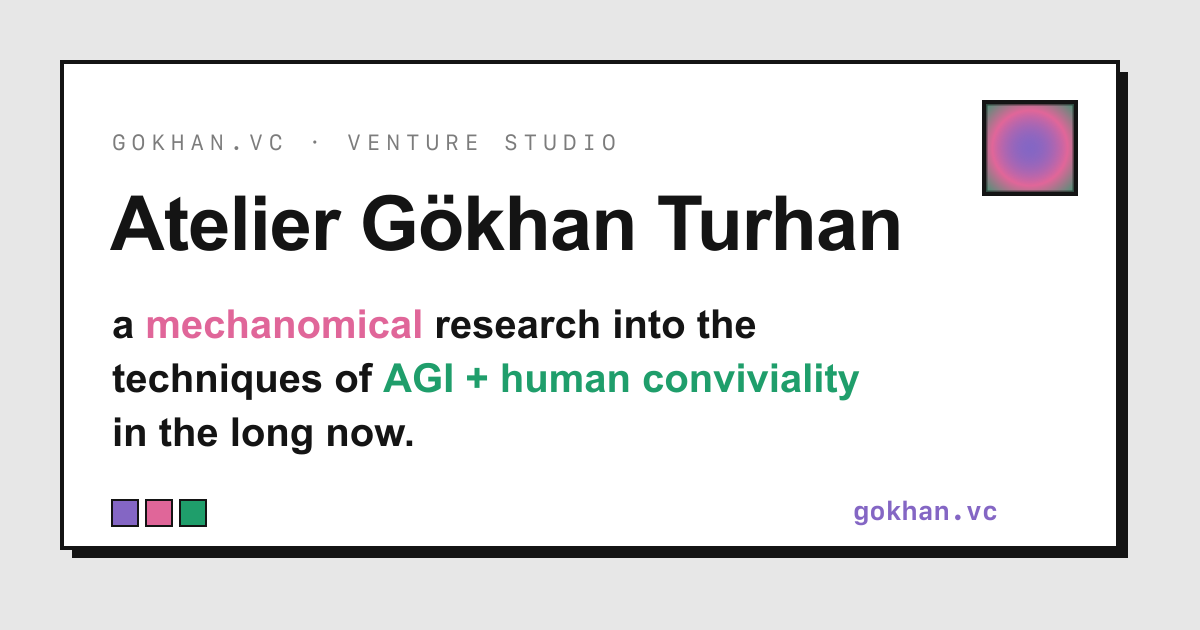
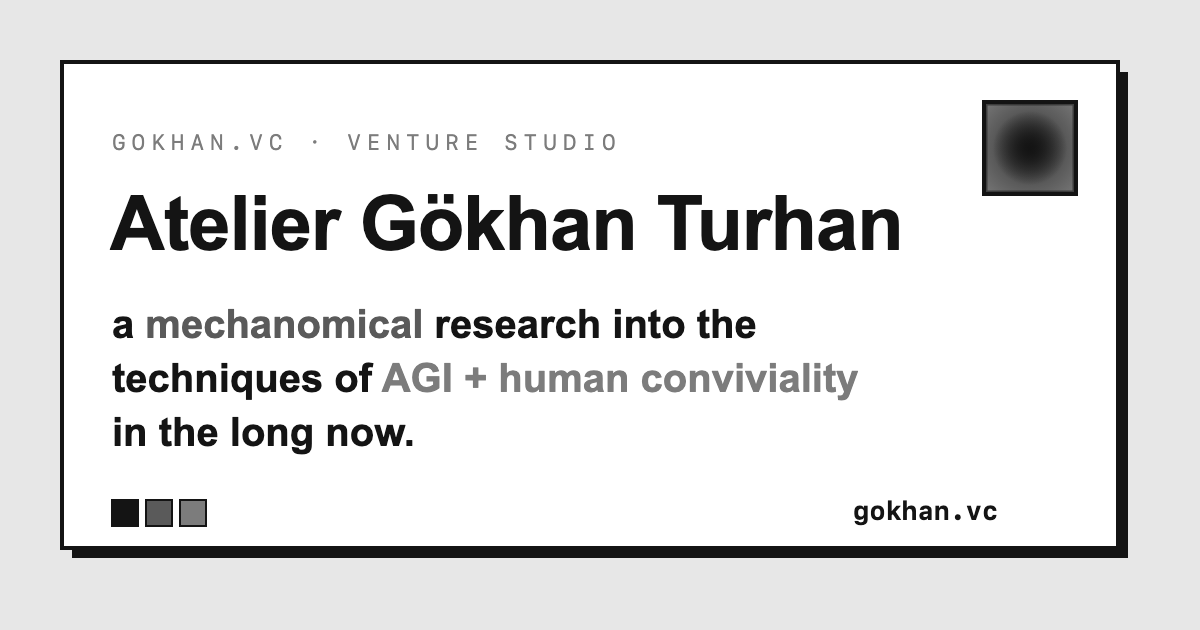
feat(redesign): B&W square kanban tiles, smaller hero, CURB + Hobby cards
- LinkTree: six square tiles in a 3/2/1 grid (index stamp, leaf count,
  open/close chevron); expanded tree flows below the face
- links: add CURB (curb.numetal.xyz — agent-to-agent inference swap;
  API/MCP/Skill/Install/Fees/x402/Docs) and Hobby Projects (tickerline,
  S&P 100 CapEx tracker, NVIDIA vs crypto)
- hero: compact 17-24px lockup (was 28-56px)
- monochrome sweep: purge #e10600/#8466c4 from global.css,
  SubscribeBlock, blog-collapse.js; add regression test
- og-image: recolor SVG to token grays, re-rasterize 1200x630 PNG
- llms.txt: six tiles + CURB/Hobby sections; tests extended to six
  properties with byte-exact hrefs

diff --git a/src/data/links.ts b/src/data/links.ts
@@ -224,6 +224,96 @@ export const properties: readonly LinkProperty[] = [
     ],
   },
   {
+    id: 'curb',
+    label: 'CURB',
+    domain: 'curb.numetal.xyz',
+    url: 'https://curb.numetal.xyz',
+    owner: 'agent↔agent inference swap',
+    apiTools: [
+      {
+        platform: 'API',
+        note: 'api.curb.numetal.xyz',
+        href: 'https://api.curb.numetal.xyz',
+        external: true,
+        tooltip: 'CURB hub API — offers, intents, matches; x402 USDC on Base (eip155:8453).',
+      },
+      {
+        platform: 'MCP',
+        note: 'curb.numetal.xyz/mcp',
+        href: 'https://curb.numetal.xyz/mcp',
+        external: true,
+        tooltip: 'MCP endpoint — connect an agent to list offers, post intents, and pay swaps.',
+      },
+      {
+        platform: 'Skill',
+        note: 'skill.md',
+        href: 'https://curb.numetal.xyz/skill.md',
+        external: true,
+        tooltip: 'Drop-in skill any agent runtime can load to trade excess inference.',
+      },
+      {
+        platform: 'Install',
+        note: 'one-line install',
+        href: 'https://curb.numetal.xyz/install',
+        external: true,
+        tooltip: 'One-line install — CURB skill and MCP wiring for your agent.',
+      },
+      {
+        platform: 'Fees',
+        note: 'fee schedule',
+        href: 'https://curb.numetal.xyz/fees',
+        external: true,
+        tooltip: 'One 0xSplits payment — seller cut + 5% protocol fee, settled on-chain.',
+      },
+      {
+        platform: 'x402',
+        note: '.well-known/x402',
+        href: 'https://curb.numetal.xyz/.well-known/x402',
+        external: true,
+        tooltip: 'x402 payment discovery manifest — USDC on Base.',
+      },
+    ],
+    website: {
+      platform: 'Website',
+      note: 'curb.numetal.xyz',
+      href: 'https://curb.numetal.xyz',
+      external: true,
+      tooltip: 'CURB — agent-to-agent excess inference swap. We are the swap rail.',
+    },
+    docs: {
+      platform: 'Docs',
+      note: 'offer → match → pay → grant',
+      href: 'https://curb.numetal.xyz/docs/',
+      external: true,
+      tooltip: "CURB docs — buyer pays once, gets a grant, calls the seller's own endpoint; upstream keys never touch the hub.",
+    },
+    socials: [
+      {
+        platform: 'X',
+        note: '@numetalxyz',
+        href: 'https://x.com/numetalxyz',
+        external: true,
+        tooltip: 'Numetal on X — studio announcements and agent launches.',
+      },
+      {
+        platform: 'Telegram',
+        note: 'Numetal',
+        href: 'https://t.me/numetalxyz',
+        external: true,
+        tooltip: 'Numetal Telegram — community and support.',
+      },
+    ],
+    contacts: [
+      {
+        platform: 'Email',
+        note: 'contact@numetal.xyz',
+        href: 'mailto:contact@numetal.xyz',
+        external: false,
+        tooltip: 'CURB inbox — swap-rail questions, sellers, and partnerships.',
+      },
+    ],
+  },
+  {
     id: 'gokhanvc',
     label: 'Gökhan VC',
     domain: 'gokhan.vc',
@@ -372,6 +462,82 @@ export const properties: readonly LinkProperty[] = [
         href: 'mailto:contact@gokhanturhan.com',
         external: false,
         tooltip: 'Personal inbox — writing, speaking, and general contact.',
+      },
+    ],
+  },
+  {
+    id: 'hobby',
+    label: 'Hobby Projects',
+    domain: 'github.com/avalidurl',
+    url: 'https://github.com/avalidurl',
+    owner: 'personal bench — avalidurl',
+    apiTools: [
+      {
+        platform: 'tickerline',
+        note: 'claudelines.com',
+        href: 'https://claudelines.com/statuslines/tickerline',
+        external: true,
+        tooltip: 'Claude Code statusline — a rolling ticker tape of stocks, crypto, and Polymarket, resolved live from the conversation.',
+      },
+      {
+        platform: 'GitHub',
+        note: 'avalidurl/tickerline',
+        href: 'https://github.com/avalidurl/tickerline',
+        external: true,
+        tooltip: 'tickerline source — no watchlist, no dictionary, no keys.',
+      },
+      {
+        platform: 'S&P 100 CapEx',
+        note: 'sp100-financial-tracker.pages.dev',
+        href: 'https://sp100-financial-tracker.pages.dev',
+        external: true,
+        tooltip: 'Real-time dashboard tracking CapEx and financials for S&P 100 companies via SEC EDGAR.',
+      },
+      {
+        platform: 'GitHub',
+        note: 'avalidurl/sp100-financial-tracker',
+        href: 'https://github.com/avalidurl/sp100-financial-tracker',
+        external: true,
+        tooltip: 'S&P 100 CapEx tracker source — SEC EDGAR + Yahoo Finance, no API keys.',
+      },
+      {
+        platform: 'NVIDIA vs crypto',
+        note: 'market-cap-tracker.vercel.app',
+        href: 'https://market-cap-tracker.vercel.app',
+        external: true,
+        tooltip: "Real-time comparison of NVIDIA's market cap versus the total cryptocurrency market cap.",
+      },
+      {
+        platform: 'GitHub',
+        note: 'avalidurl/market-cap-tracker',
+        href: 'https://github.com/avalidurl/market-cap-tracker',
+        external: true,
+        tooltip: 'NVIDIA vs crypto tracker source — Yahoo Finance + CoinGecko.',
+      },
+    ],
+    website: {
+      platform: 'GitHub',
+      note: 'avalidurl',
+      href: 'https://github.com/avalidurl',
+      external: true,
+      tooltip: 'Personal GitHub — experiments and side projects.',
+    },
+    socials: [
+      {
+        platform: 'X',
+        note: '@goekhan',
+        href: 'https://x.com/goekhan',
+        external: true,
+        tooltip: 'Gökhan on X — markets, agents, and hobby ships.',
+      },
+    ],
+    contacts: [
+      {
+        platform: 'Email',
+        note: 'contact@gokhanturhan.com',
+        href: 'mailto:contact@gokhanturhan.com',
+        external: false,
+        tooltip: 'Personal inbox — hobby projects and general contact.',
       },
     ],
   },

diff --git a/tests/links.test.ts b/tests/links.test.ts
@@ -1,7 +1,7 @@
 import { describe, expect, it } from 'vitest';
 import { properties, allLeaves } from '../src/data/links';
 
-const EXPECTED_ORDER = ['ishtar', 'numetal', 'gokhanvc', 'memex'] as const;
+const EXPECTED_ORDER = ['ishtar', 'numetal', 'curb', 'gokhanvc', 'memex', 'hobby'] as const;
 
 const EXPECTED_HREFS: Record<string, string[]> = {
   ishtar: [
@@ -30,6 +30,19 @@ const EXPECTED_HREFS: Record<string, string[]> = {
     'https://discord.gg/MC4DYumPMz',
     'mailto:contact@numetal.xyz',
   ],
+  curb: [
+    'https://api.curb.numetal.xyz',
+    'https://curb.numetal.xyz/mcp',
+    'https://curb.numetal.xyz/skill.md',
+    'https://curb.numetal.xyz/install',
+    'https://curb.numetal.xyz/fees',
+    'https://curb.numetal.xyz/.well-known/x402',
+    'https://curb.numetal.xyz',
+    'https://curb.numetal.xyz/docs/',
+    'https://x.com/numetalxyz',
+    'https://t.me/numetalxyz',
+    'mailto:contact@numetal.xyz',
+  ],
   gokhanvc: [
     'https://api.gokhan.vc',
     'https://github.com/gokhan-vc',
@@ -52,13 +65,26 @@ const EXPECTED_HREFS: Record<string, string[]> = {
     'https://discord.gg/ZcxcwRPT7R',
     'mailto:contact@gokhanturhan.com',
   ],
+  hobby: [
+    'https://claudelines.com/statuslines/tickerline',
+    'https://github.com/avalidurl/tickerline',
+    'https://sp100-financial-tracker.pages.dev',
+    'https://github.com/avalidurl/sp100-financial-tracker',
+    'https://market-cap-tracker.vercel.app',
+    'https://github.com/avalidurl/market-cap-tracker',
+    'https://github.com/avalidurl',
+    'https://x.com/goekhan',
+    'mailto:contact@gokhanturhan.com',
+  ],
 };
 
 const EXPECTED_CONTACTS: Record<string, string> = {
   ishtar: 'contact@numetal.xyz',
   numetal: 'contact@numetal.xyz',
+  curb: 'contact@numetal.xyz',
   gokhanvc: 'contact@gokhan.vc',
   memex: 'contact@gokhanturhan.com',
+  hobby: 'contact@gokhanturhan.com',
 };
 
 function leavesForProperty(id: string) {
@@ -75,13 +101,15 @@ function leavesForProperty(id: string) {
 }
 
 describe('link tree data — structure', () => {
-  it('has exactly four properties in founder order', () => {
+  it('has exactly six properties in founder order', () => {
     expect(properties.map((p) => p.id)).toEqual([...EXPECTED_ORDER]);
     expect(properties.map((p) => p.label)).toEqual([
       'Ishtar',
       'Numetal Labs',
+      'CURB',
       'Gökhan VC',
       'Personal Memex',
+      'Hobby Projects',
     ]);
   });
 
@@ -121,11 +149,13 @@ describe('link tree data — byte-exact hrefs', () => {
 });
 
 describe('link tree data — link hygiene', () => {
-  it('has exactly four mailto leaves with correct addresses', () => {
+  it('has exactly six mailto leaves with correct addresses', () => {
     const mailtos = allLeaves.filter((leaf) => leaf.href.startsWith('mailto:'));
     expect(mailtos.map((leaf) => leaf.href).sort()).toEqual([
       'mailto:contact@gokhan.vc',
       'mailto:contact@gokhanturhan.com',
+      'mailto:contact@gokhanturhan.com',
+      'mailto:contact@numetal.xyz',
       'mailto:contact@numetal.xyz',
       'mailto:contact@numetal.xyz',
     ]);

diff --git a/src/styles/global.css b/src/styles/global.css
@@ -107,7 +107,7 @@ a:focus-visible {
 .stripe {
   height: 6px;
   margin-top: 2.2rem;
-  background-image: repeating-linear-gradient(135deg, #e10600 0 9px, transparent 9px 18px);
+  background-image: repeating-linear-gradient(135deg, var(--ink) 0 9px, transparent 9px 18px);
 }
 
 .foot-sub {
@@ -222,8 +222,8 @@ a:focus-visible {
 
 .foot-sub-btn--xmtp:hover,
 .foot-sub-btn--xmtp:focus-visible {
-  color: #e10600;
-  border-color: #e10600;
+  color: var(--ink);
+  border-color: var(--ink);
 }
 
 .foot-sub-btn--xmtp:disabled {
@@ -270,7 +270,7 @@ a:focus-visible {
   font-weight: 400;
   opacity: 0;
   transition: opacity 0.12s;
-  color: #6a6a6a;
+  color: var(--muted);
 }
 
 h1:hover > .hanchor,
@@ -283,7 +283,7 @@ h4:hover > .hanchor,
 
 .hanchor:hover {
   opacity: 1;
-  color: #8466c4;
+  color: var(--ink);
   text-decoration: none;
 }
 

diff --git a/public/blog-collapse.js b/public/blog-collapse.js
@@ -13,7 +13,7 @@
 
   var css =
     '.hcoll{all:unset;box-sizing:border-box;cursor:pointer;display:inline-flex;align-items:center;justify-content:center;' +
-    'width:1.25em;height:1.25em;margin-right:.32em;vertical-align:baseline;color:var(--red,#e10600);font-size:.66em;' +
+    'width:1.25em;height:1.25em;margin-right:.32em;vertical-align:baseline;color:var(--ink,#141414);font-size:.66em;' +
     'line-height:1;position:relative;opacity:.5;transition:opacity .12s}' +
     'h1:hover>.hcoll,h2:hover>.hcoll,h3:hover>.hcoll,.hcoll:hover,.hcoll:focus-visible{opacity:1}' +
     '.hcoll::after{content:attr(data-tip);position:absolute;left:0;top:135%;white-space:nowrap;' +

diff --git a/tests/design-system.test.ts b/tests/design-system.test.ts
@@ -58,4 +58,12 @@ describe('global stylesheet', () => {
   it('uses the Archivo Variable family in the body font stack', () => {
     expect(tokensCss).toMatch(/--font-sans:[^;]*Archivo Variable/);
   });
+
+  it('carries no residual accent hues — strictly monochrome', () => {
+    // The legacy red/purple accents must never return to the stylesheet layer.
+    expect(globalCss).not.toMatch(/#e10600/i);
+    expect(globalCss).not.toMatch(/#8466c4/i);
+    expect(tokensCss).not.toMatch(/#e10600/i);
+    expect(tokensCss).not.toMatch(/#8466c4/i);
+  });
 });
